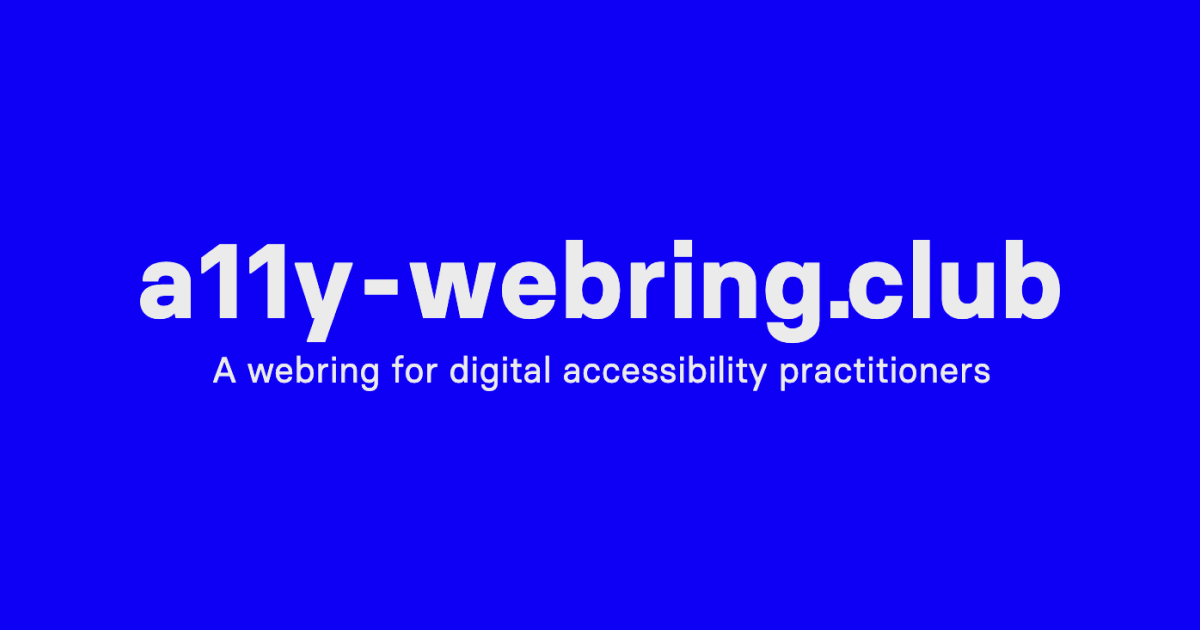
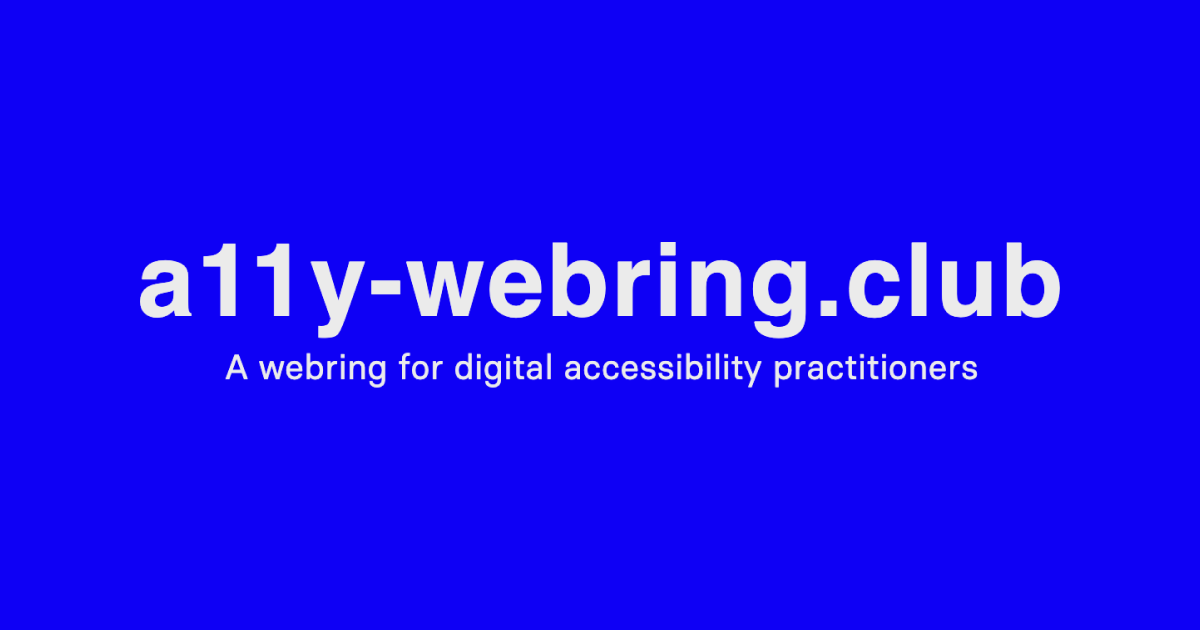
Redesign

Changed region(s): [[0.1233, 0.3619, 0.8942, 0.6333]]

diff --git a/site.css b/site.css
@@ -1,11 +1,12 @@
 @layer core, layout, utilities;
 
+/* MARK: Core */
 @layer core {
   @font-face {
     font-display: fallback;
     font-family: "basiersquare";
     font-weight: 700;
-    src: url('/fonts/basiersquare-bold.woff2') format('woff2');
+    src: url('/fonts/basiersquare-semibold.woff2') format('woff2');
   }
 
   @font-face {
@@ -23,6 +24,7 @@
     padding: 0;
   }
 
+  /* MARK: Root */
   :root {
     --ratio: 1.25;
     --base-font-size: 130%;
@@ -52,8 +54,18 @@
     --step-6: clamp(3.3592rem, 2.8691rem + 2.4507vi, 4.7684rem);
 
     --transition-medium: 125ms ease-in-out;
+
+    &:has(#scheme-button-dark[aria-pressed="true"]) {
+      --color-primary: #ff7066;
+      --color-secondary: #1f1f1f;
+    }
+
+    @media screen and (prefers-reduced-motion: reduce) {
+      --transition-medium: none;
+    }
   }
 
+  /* MARK: Basics */
   html {
     margin: 0;
     min-height: 100%;
@@ -76,6 +88,9 @@
     line-height: var(--ratio);
     min-height: 100%;
     text-wrap: pretty;
+    transition:
+      background-color var(--transition-medium),
+      color var(--transition-medium);
   }
 
   main {
@@ -135,7 +150,7 @@
   }
 }
 
-
+/* MARK: Utilities */
 @layer utilities {
   .u-hidden {
     display: none;
@@ -251,7 +266,7 @@
   .u-tracking-slight { letter-spacing: 0.05ch;}
 }
 
-
+/* MARK: Layout */
 @layer layout {
   .grid-title {
     grid-area: title;
@@ -311,7 +326,7 @@
   }
 }
 
-
+/* MARK: Components */
 @layer components {
   .c-sprite {
     display: none;
@@ -661,6 +676,7 @@
   }
 }
 
+/* MARK: Media Queries */
 @media (min-width: 38rem) {
   @layer components {
     .view-as-grid {
@@ -771,16 +787,7 @@
   }
 }
 
-
-@media (prefers-color-scheme: dark) {
-  @layer core {
-    :root {
-      --color-primary: #ff7066;
-      --color-secondary: #1f1f1f;
-    }
-  }
-}
-
+/* MEDIA: Forced Colors */
 @media (forced-colors: active) {
   @layer core {
     a:not([class]) {
